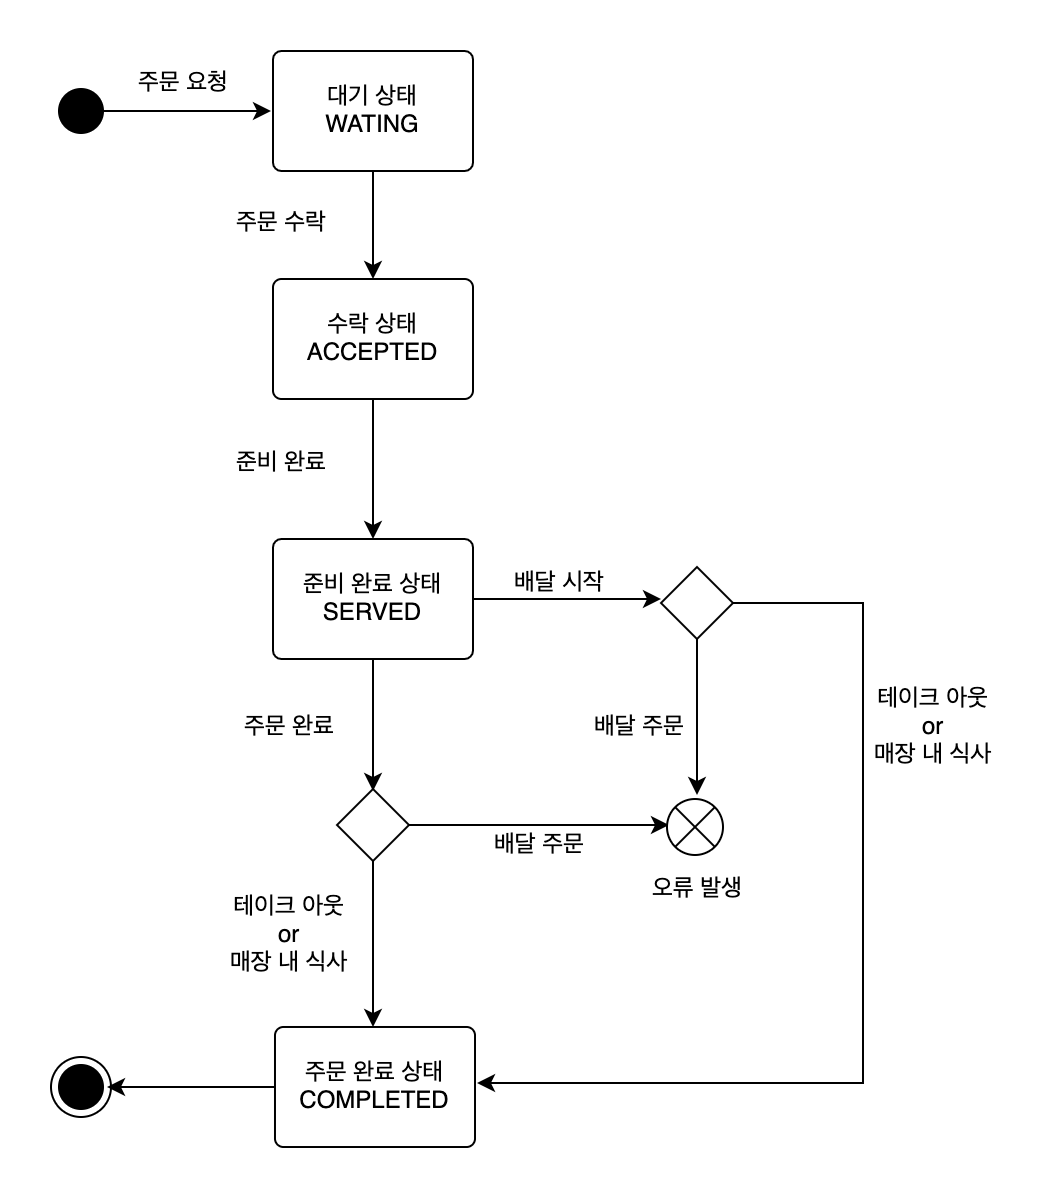
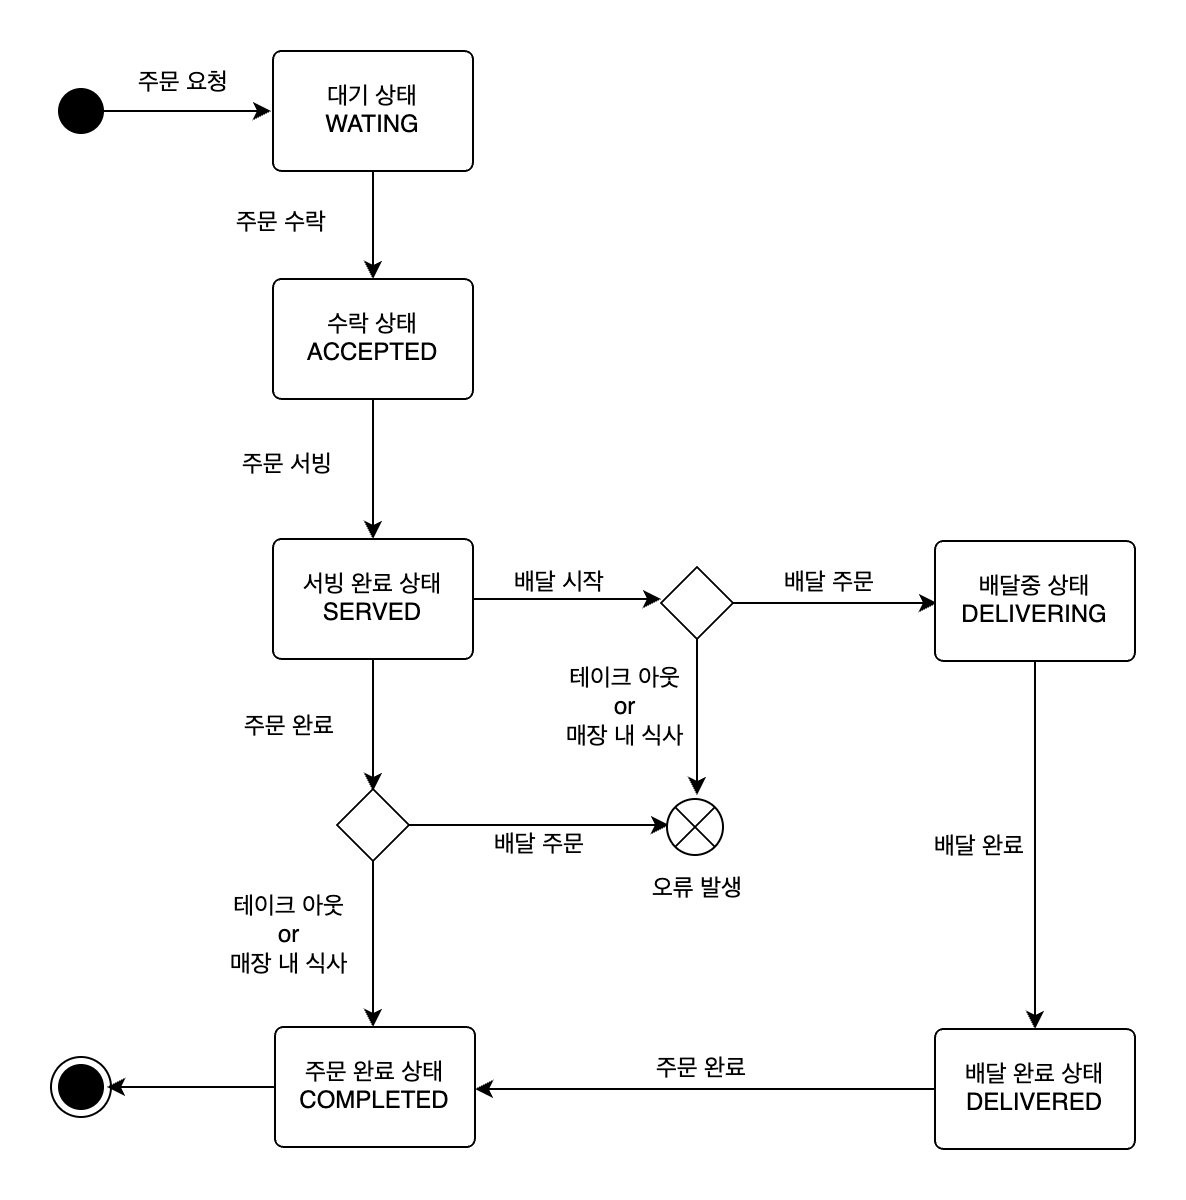
docs: 요구사항 수정
- 어색한 문장을 다듬는다.
- 주문 상태 다이어그램에서 누락된 상태를 추가한다.

diff --git a/README.md b/README.md
@@ -17,18 +17,16 @@ docker compose -p kitchenpos up -d
 
 #### Create
 
-- [ ] `상품(Product)`을 생성 할 수 있다.
-    - [ ] `상품(Product)`은 반드시 가격을 갖는다.
-        - [ ] `상품(Product)` 가격은 0보다 작을 수 없다.
-    - [ ] `상품(Product)`은 반드시 이름을 갖는다.
-        - [ ] `상품(Product)` 이름은 비속어를 포함 할 수 없다.
+- [ ] `상품(Product)`을 등록 할 수 있다.
+    - [ ] `상품(Product)` 가격은 0원 이상이다.
+    - [ ] `상품(Product)` 이름은 비어 있을 수 없고, 비속어를 포함 할 수 없다.
 
 #### Update
 
 - [ ] `상품(Product)` 가격을 변경 할 수 있다.
-    - [ ] `상품(Product)` 가격은 0 보다 작을 수 없다.
-    - [ ] `상품(Product)` 가격 변경으로 인해, `메뉴 상품(MenuProduct)` 가격의 총합이 `메뉴(Menu)`의 가격보다 작아지는
-      경우, `메뉴(Menu)` 노출 여부를 false 로 변경한다.
+    - [ ] `상품(Product)` 가격은 0원 이상이다.
+    - [ ] `상품(Product)` 가격 변경으로 인해, 해당 `상품(Product)`을 `메뉴 상품(MenuProduct)`으로 갖는 `메뉴(Menu)`의 가격이 `메뉴 상품(MenuProduct)`
+      가격의 총합보다 커지는 경우, `메뉴(Menu)`를 감춘다.
 
 #### Read
 
@@ -40,8 +38,8 @@ docker compose -p kitchenpos up -d
 
 #### Create
 
-- [ ] `메뉴 그룹(MenuGroup)`을 생성 할 수 있다.
-    - [ ] `메뉴 그룹(MenuGroup)`은 반드시 이름을 갖는다.
+- [ ] `메뉴 그룹(MenuGroup)`을 등록 할 수 있다.
+    - [ ] `메뉴 그룹(MenuGroup)` 이름은 비어 있을 수 없다.
 
 #### Read
 
@@ -53,20 +51,18 @@ docker compose -p kitchenpos up -d
 
 #### Create
 
-- [ ] `메뉴(Menu)`를 생성 할 수 있다.
-    - [ ] `메뉴(Menu)`는 반드시 가격을 갖는다.
-        - [ ] `메뉴(Menu)` 가격은 0보다 작을 수 없다.
-    - [ ] `메뉴(Menu)`는 반드시 하나의 `메뉴 그룹(MenuGroup)`을 갖는다.
+- [ ] `메뉴(Menu)`를 등록 할 수 있다.
+    - [ ] `메뉴(Menu)` 가격은 0원 이상이다.
+    - [ ] `메뉴(Menu)`는 반드시 하나의 `메뉴 그룹(MenuGroup)`에 속한다.
     - [ ] `메뉴(Menu)`는 반드시 하나 이상의 `메뉴 상품(MenuProduct)`을 갖는다.
-        - [ ] `메뉴 상품(MenuProduct)`의 수량은 0보다 작을 수 없다.
+        - [ ] `메뉴 상품(MenuProduct)` 수량은 0 이상이다.
         - [ ] `메뉴(Menu)` 가격은 `메뉴 상품(MenuProduct)` 가격의 총합보다 클 수 없다.
-    - [ ] `메뉴(Menu)`는 반드시 이름을 갖는다.
-        - [ ] `메뉴(Menu)` 이름은 비속어를 포함 할 수 없다.
+    - [ ] `메뉴(Menu)` 이름은 비어 있을 수 없고, 비속어를 포함 할 수 없다.
 
 #### Update
 
 - [ ] `메뉴(Menu)` 가격을 변경 할 수 있다.
-    - [ ] `메뉴(Menu)` 가격은 0 보다 작을 수 없다.
+    - [ ] `메뉴(Menu)` 가격은 0원 이상이다.
     - [ ] `메뉴(Menu)` 가격은 `메뉴 상품(MenuProduct)` 가격의 총합보다 클 수 없다.
 - [ ] `메뉴(Menu)`를 노출 시킬 수 있다.
     - [ ] `메뉴(Menu)` 가격이 `메뉴 상품(MenuProduct)` 가격의 총합보다 큰 경우, `메뉴(Menu)`를 노출 시킬 수 없다.
@@ -82,22 +78,20 @@ docker compose -p kitchenpos up -d
 
 #### Create
 
-- [ ] `주문 테이블(OrderTable)`을 생성 할 수 있다.
-    - [ ] `주문 테이블(OrderTable)`은 반드시 이름을 갖는다.
-    - [ ] `주문 테이블(OrderTable)`은 반드시 손님 수를 갖는다.
-        - [ ] `주문 테이블(OrderTable)` 생성 시, 초기 손님 수는 0이다.
-    - [ ] `주문 테이블(OrderTable)`은 반드시 착석 여부를 갖는다.
-        - [ ] `주문 테이블(OrderTable)`은 생성 시, 비어있는 상태이다.
+- [ ] `주문 테이블(OrderTable)`을 등록 할 수 있다.
+    - [ ] `주문 테이블(OrderTable)` 이름은 비어 있을 수 없다.
+    - [ ] `주문 테이블(OrderTable)` 초기 등록 시, 손님 수는 0명이다.
+    - [ ] `주문 테이블(OrderTable)` 초기 등록 시, 비어있는 상태이다.
 
 #### Update
 
-- [ ] `주문 테이블(OrderTable)`에 착석 할 수 있다.
+- [ ] `주문 테이블(OrderTable)`에 손님이 착석 할 수 있다.
 - [ ] `주문 테이블(OrderTable)`을 빈 테이블로 세팅 할 수 있다.
-    - [ ] `주문 테이블(OrderTable)`을 빈 테이블로 세팅 시, `주문 테이블(OrderTable)`의 `주문 상태(OrderStatus)`
-      는 `완료 상태(OrderStatus.COMPLETED)`이어야 한다.
+    - [ ] `주문 테이블(OrderTable)`을 빈 테이블로 세팅 시, `주문 테이블(OrderTable)`의 `주문 상태(OrderStatus)`는 `완료 상태(OrderStatus.COMPLETED)`
+      이어야 한다.
     - [ ] `주문 테이블(OrderTable)`을 빈 테이블로 세팅 시, 손님 수는 0 으로 세팅된다.
 - [ ] `주문 테이블(OrderTable)`의 손님 수를 변경 할 수 있다.
-    - [ ] `주문 테이블(OrderTable)`의 손님 수는 0 보다 작을 수 없다.
+    - [ ] `주문 테이블(OrderTable)`의 손님 수는 0명 이상이다.
     - [ ] 착석 중인 `주문 테이블(OrderTable)`만 손님 수를 변경 할 수 있다.
 
 #### Read
@@ -110,21 +104,21 @@ docker compose -p kitchenpos up -d
 
 #### Create
 
-- [ ] `주문(Order)`을 생성 할 수 있다.
-    - [ ] `주문(Order)`은 반드시 `주문 타입(OrderType)`을 갖는다.
+- [ ] `주문(Order)`을 등록 할 수 있다.
+    - [ ] `주문(Order)`은 반드시 하나의 `주문 타입(OrderType)`을 갖는다.
+        - [ ] `주문 타입(OrderType)`은 `매장 내 식사(OrderType.EAT_IN)`, `배달 타입(OrderType.DELIVERY)`
+          또는 `테이크 아웃(OrderType.TAKEOUT)` 이다.
     - [ ] `주문(Order)`은 반드시 하나 이상의 `주문 아이템(OrderLineItem)`을 갖는다.
-        - [ ] `주문 아이템(OrderLineItem)`은 반드시 `메뉴(Menu)`를 갖는다.
-        - [ ] `주문 아이템(OrderLineItem)`은 `주문 타입(OrderType)`이 `매장 내 식사(OrderType.EAT_IN)`가 아닌 경우, 반드시 0
-          이상의 주문 수량을 갖는다.
-        - [ ] `주문 아이템(OrderLineItem)`은 노출되지 않은 `메뉴(Menu)`를 가질 수 없다.
-        - [ ] `주문 아이템(OrderLineItem)`의 가격은 주문한 `메뉴(Menu)`의 가격과 동일하다.
-    - [ ] `주문(Order)`은 반드시 `주문 상태(OrderStatus)`를 갖는다.
-        - [ ] `주문(Order)` 생성 시 `주문 상태(OrderStatus)`의 초기값은 `대기 상태(OrderStatus.WAITING)`이다.
-    - [ ] `주문(Order)`은 반드시 주문 시각을 갖는다.
-        - [ ] `주문(Order)` 생성 시 주문 시각의 초기값은 현재 시각이다.
-    - [ ] `주문(Order)`은 `주문 타입(OrderType)`이 `배달 상태(OrderType.DELIVERY)`인 경우, 반드시 배달 주소를 갖는다.
-    - [ ] `주문(Order)`은 `주문 타입(OrderType)`이 `매장 내 식사(OrderType.EAT_IN)`인 경우, 반드시 `주문 테이블(OrderTable)`
-      을 갖는다.
+        - [ ] `주문 아이템(OrderLineItem)`은 주문할 `메뉴(Menu)`를 갖는다.
+            - [ ] `주문 아이템(OrderLineItem)`은 노출되지 않은 `메뉴(Menu)`를 가질 수 없다.
+        - [ ] `주문 아이템(OrderLineItem)`은 주문 수량을 갖는다.
+            - [ ] `주문 타입(OrderType)`이 `매장 내 식사(OrderType.EAT_IN)`가 아닌 경우, 주문 수량은 0 이상이다.
+        - [ ] 주문 시점의 `메뉴(Menu)` 가격이 현재 등록된 가격과 다른 경우, `주문(Order)`을 등록 할 수 없다.
+    - [ ] `주문(Order)`은 반드시 하나의 `주문 상태(OrderStatus)`를 갖는다.
+        - [ ] `주문(Order)`은 초기 생성 시, `대기 상태(OrderStatus.WAITING)`이다.
+    - [ ] `주문(Order)`의 주문 시각은 `주문(Order)`이 등록되는 시각이다.
+    - [ ] `주문(Order)`은 `주문 타입(OrderType)`이 `배달 타입(OrderType.DELIVERY)`인 경우, 반드시 배달 주소를 갖는다.
+    - [ ] `주문(Order)`은 `주문 타입(OrderType)`이 `매장 내 식사(OrderType.EAT_IN)`인 경우, 반드시 `주문 테이블(OrderTable)` 을 갖는다.
         - [ ] `주문(Order)` 생성 시 `주문 테이블(OrderTable)`은 빈 테이블이어야 한다.
 
 #### Update
@@ -132,8 +126,7 @@ docker compose -p kitchenpos up -d
 - [ ] `주문(Order)`을 수락할 수 있다.
     - [ ] `주문(Order)` 수락 시, `주문(Order)`은 `대기 상태(OrderStatus.WATING)`이어야 한다.
     - [ ] `주문(Order)` 수락 시, `주문(Order)`은 `수락 상태(OrderStatus.ACCEPTED)`가 된다.
-    - [ ] `주문 타입(OrderType)`이 `배달 타입(OrderType.DELIVERY)`인 경우, `배달 클라이언트(KitchenridersClient)`에게 배달을
-      요청한다.
+    - [ ] `주문 타입(OrderType)`이 `배달 타입(OrderType.DELIVERY)`인 경우, `배달 클라이언트(KitchenridersClient)`에게 배달을 요청한다.
 - [ ] `주문(Order)`을 서빙할 수 있다.
     - [ ] `주문(Order)` 서빙 시, `주문(Order)`은 `수락 상태(OrderStatus.ACCEPTED)`이어야 한다.
     - [ ] `주문(Order)` 서빙 시, `주문(Order)`은 `서빙 완료 상태(OrderStatus.SERVED)`가 된다.
@@ -145,13 +138,13 @@ docker compose -p kitchenpos up -d
     - [ ] `주문(Order)` 배달 완료 시, `주문(Order)`은 `배달중 상태(OrderStatus.DELIVERING)`이어야 한다.
     - [ ] `주문(Order)` 배달 완료 시, `주문(Order)`은 `배달 완료 상태(OrderStatus.DELIVERED)`가 된다.
 - [ ] `주문(Order)`을 완료할 수 있다.
-    - [ ] `주문 타입(OrderType)`이 `배달 타입(OrderType.DELIVERY)`인 경우, `주문 상태(OrderStatus)`
-      는 `배달 완료 상태(OrderStatus.DELIVERED)`이어야 한다.
-    - [ ] `주문 타입(OrderType)`이 `테이크 아웃(OrderType.TAKEOUT)`이거나 `매장 내 식사(OrderType.EAT_IN)`인
-      경우, `주문 상태(OrderStatus)`는 `서빙 완료 상태(OrderStatus.SERVED)`이어야 한다.
-    - [ ] `주문(Order)` 완료 시, `주문(Order)`은 `완료 상태(OrderStatus.COMPLETED)`가 된다.
+    - [ ] `주문 타입(OrderType)`이 `배달 타입(OrderType.DELIVERY)`인 경우, `주문 상태(OrderStatus)`는 `배달 완료 상태(OrderStatus.DELIVERED)`
+      이어야 한다.
+    - [ ] `주문 타입(OrderType)`이 `테이크 아웃(OrderType.TAKEOUT)`이거나 `매장 내 식사(OrderType.EAT_IN)`인 경우, `주문 상태(OrderStatus)`
+      는 `서빙 완료 상태(OrderStatus.SERVED)`이어야 한다.
+    - [ ] 주문 완료 시, `주문(Order)`은 `완료 상태(OrderStatus.COMPLETED)`가 된다.
     - [ ] `주문 타입(OrderType)`이 `매장 내 식사(OrderType.EAT_IN)`인 경우, 해당 `주문 테이블(OrderTable)`을 빈 테이블로 세팅한다.
-        - [ ] `주문 테이블(OrderTable)`의 손님 수를 0 변경한다.
+        - [ ] `주문 테이블(OrderTable)`의 손님 수를 0명으로 변경한다.
 
 #### Read
 
